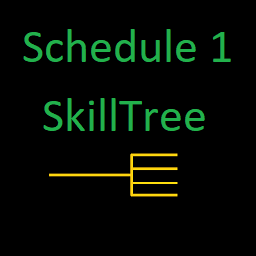
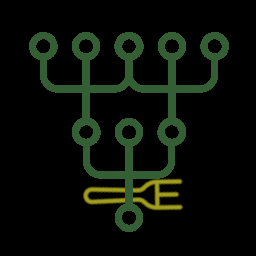
Version 2.4.0

Changed region(s): [[0.0938, 0.0938, 0.9062, 0.9062]]

diff --git a/Core/Core.cs b/Core/Core.cs
@@ -21,14 +21,14 @@ using System.Collections;
 using System.Linq;
 using UnityEngine;
 
-[assembly: MelonInfo(typeof(Core), "SkillTree", "2.3.5", "CrazyReizor & VindicatedVendetta", null)]
+[assembly: MelonInfo(typeof(Core), "SkillTree", "2.4.0", "CrazyReizor & VindicatedVendetta", null)]
 [assembly: MelonGame("TVGS", "Schedule I")]
 
 namespace SkillTree.Core
 {
     public class Core : MelonMod
     {
-        private static readonly string version = "2.3.5";
+        private static readonly string version = "2.4.0";
         public static bool IsS1APIPatchNeeded { get; private set; } = false;
 
         private int skillPointValid = 0;

diff --git a/README.md b/README.md
@@ -242,6 +242,8 @@ Icons - https://iconify.design/
 - Heal Icon - material-symbols:heart-plus - License: Apache 2
 - Trashcan Icon - ix:trashcan - License: MIT
 - Cash Icon - bi:cash-coin - License: MIT
+- App Icon Tree - si:flow-tree-duotone - License: MIT
+- App Icon Fork - hugeicons:fork - License: MIT
 
 ## F.A.Q.
 
